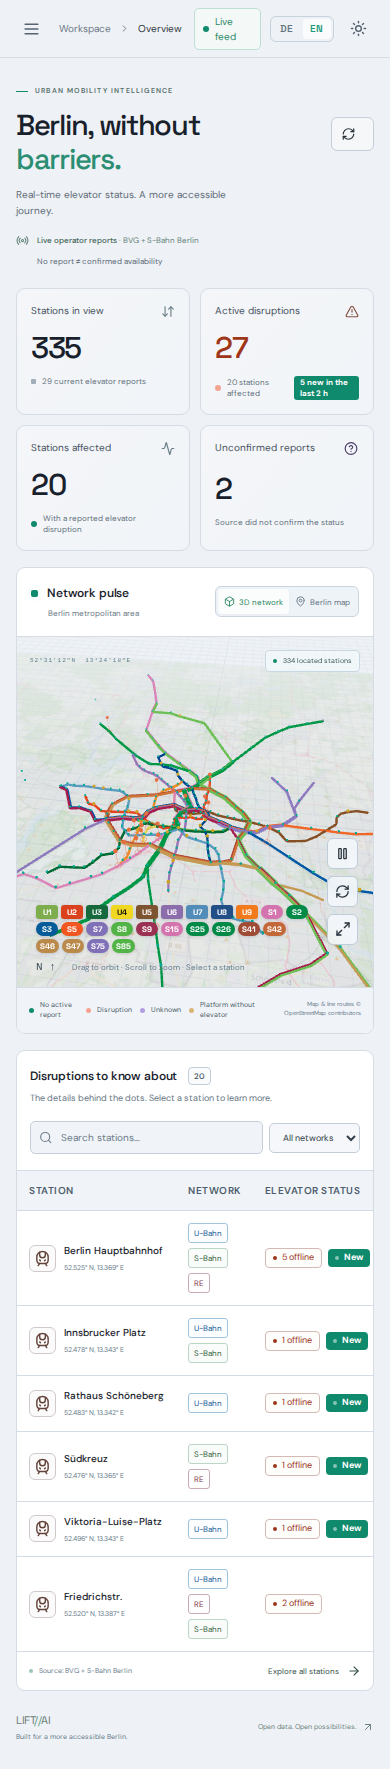
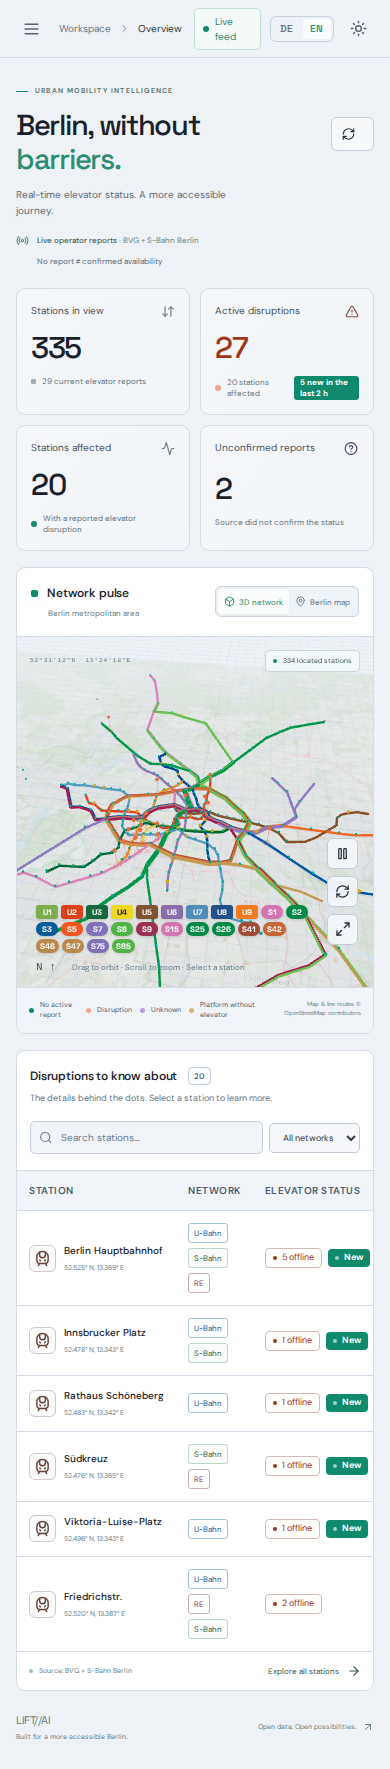
Fall back to a 2D network view when WebGL is unavailable
With WebGL off (driver blocklists, privacy settings) both the 3D scene and
MapLibre fail, and the error stayed even after switching views. Now the app
detects WebGL and shows an SVG network with the same lines and stations; the
error boundary resets per view, logs the error and falls back to 2D as well.
Adds a Firefox no-WebGL Playwright project that reproduces the bug.

Changed region(s): [[0.0615, 0.3731, 0.9538, 0.5596], [0.4, 0.5285, 0.4308, 0.5596]]

diff --git a/frontend/src/App.tsx b/frontend/src/App.tsx
@@ -9,9 +9,11 @@ import lines from './data/lines.json';
 const lineColour=Object.fromEntries(lines.map(l=>[l.ref,l.colour]));
 const Network=lazy(()=>import('./components/Network'));
 const BerlinMap=lazy(()=>import('./components/BerlinMap'));
+import Network2D from './components/Network2D';
+import {supportsWebGL} from './projection';
 const stamp=(s:string)=>new Date(s).toLocaleTimeString('en-GB',{hour:'2-digit',minute:'2-digit',timeZone:'Europe/Berlin'});
 const modes=['All networks','U-Bahn','S-Bahn','Regional'];
-class SceneBoundary extends Component<{children:ReactNode;message:string},{failed:boolean}>{state={failed:false};static getDerivedStateFromError(){return{failed:true};}render(){return this.state.failed?<div className="empty">{this.props.message}</div>:this.props.children;}}
+class SceneBoundary extends Component<{children:ReactNode;fallback:ReactNode},{failed:boolean}>{state={failed:false};static getDerivedStateFromError(){return{failed:true};}componentDidCatch(error:unknown){console.error('Network view failed; showing the 2D fallback.',error);}render(){return this.state.failed?this.props.fallback:this.props.children;}}
 function Modal({open,onClose,title,children,t}:{open:boolean;onClose:()=>void;title:string;children:ReactNode;t:Strings}){return <Dialog.Root open={open} onOpenChange={v=>!v&&onClose()}><Dialog.Portal><Dialog.Overlay className="dialog-overlay"/><Dialog.Content className="dialog"><Dialog.Title>{title}</Dialog.Title><Dialog.Description className="sr-only">{t.dialog.describe(title)}</Dialog.Description><Dialog.Close asChild><Button variant="ghost" size="icon" className="dialog-close" aria-label={t.dialog.close}><X size={19}/></Button></Dialog.Close>{children}</Dialog.Content></Dialog.Portal></Dialog.Root>}
 export default function App(){
  const [data,setData]=useState<Dashboard|null>(null),[error,setError]=useState(''),[loading,setLoading]=useState(true),[refresh,setRefresh]=useState(0);
@@ -42,6 +44,9 @@ export default function App(){
   const settle=(update:{answer?:Briefing;error?:string})=>setChat(c=>c.map(m=>m.id===id?{...m,...update}:m));
   try{const r=await fetch('/api/copilot',{method:'POST',headers:{'Content-Type':'application/json'},body:JSON.stringify({question:q,lang})});if(!r.ok)throw Error(r.status===429?t.errors.busy:t.errors.copilot);settle({answer:await r.json()});}catch(e){settle({error:e instanceof Error?e.message:t.errors.request});}finally{setAsking(false);}};
  const stats=data?.stats;
+ const webgl=useMemo(supportsWebGL,[]);
+ const stationLabel=(s:Station)=>[s.name,s.source==='osm'?t.table.noElevator:t.table.offline(s.outages),s.source!=='osm'&&s.no_elevator&&t.detail.noLiftShort(s.no_elevator),s.new_outages&&t.table.newBadge(s.new_outages)].filter(Boolean).join(' · ');
+ const flat=(note:string)=><Network2D stations={stations} onSelect={setSelected} label={t.flatLabel} note={note} stationLabel={stationLabel}/>;
  const reports=data?.coverage==='reports';
  const totalKnown=stats?stats.operational+stats.outages:0;
  const availability=totalKnown?((stats!.operational/totalKnown)*100).toFixed(1):'—';
@@ -56,7 +61,7 @@ export default function App(){
  {data?.stale&&<div className="notice" role="status">{t.staleNotice}</div>}
  {reports&&<div className="coverage-strip"><Radio size={13}/><span><strong>{t.liveReports}</strong> · BVG + S-Bahn Berlin</span><span>{t.noReportNote}</span></div>}
  {tab==='Overview'&&<><div className="stats-grid"><Stat label={reports?t.stat.stationsInView:t.stat.monitored} value={reports?stats?.stations:stats?.elevators} icon={<ArrowDownUp size={17}/>} foot={<><span className="tiny-square"/> {reports?t.stat.currentReports(stats?.elevators??'—'):t.stat.across(stats?.stations??'—')}</>}/><Stat label={t.stat.disruptions} value={stats?.outages} icon={<TriangleAlert size={17}/>} tone="coral" foot={<><i className="dot coral"/>{t.stat.affectedFoot(stats?.affected_stations??'—')}{!!stats?.new_outages&&<span className="new-foot">{t.stat.newFoot(stats.new_outages)}</span>}</>}/><Stat label={reports?t.stat.affected:t.stat.availability} value={reports?stats?.affected_stations:availability} suffix={reports?undefined:"%"} icon={<Activity size={17}/>} foot={<><i className="dot"/>{reports?t.stat.withDisruption:t.stat.ofKnown}</>}/><Stat label={reports?t.stat.unconfirmed:t.stat.unknown} value={stats?stats.unknown+stats.unresolved_elevators:undefined} icon={<CircleHelp size={17}/>} help={<><p>{reports?t.stat.unconfirmedHelp:t.stat.unknownHelp}</p>{(data?.stations.filter(s=>s.unknown>0||s.unresolved_elevators>0)??[]).map(s=><button key={s.id} onClick={()=>setSelected(s)}>{s.name}<ArrowUpRight size={12}/></button>)}{!data?.stations.some(s=>s.unknown>0||s.unresolved_elevators>0)&&<small>{t.stat.noneUnconfirmed}</small>}</>} helpLabel={t.stat.helpLabel} tone="violet" foot={<>{reports?t.stat.notConfirmed:t.stat.incomplete(stats?.unresolved_elevators??0)}</>}/></div>
- <div className="dashboard-grid"><section className={`panel network-panel ${full?'expanded':''}`}><div className="panel-header"><div><h2><span className="section-mark"/>{t.pulse}</h2><p>{t.metro}</p></div><div className="segmented"><button aria-pressed={view==='3d'} onClick={()=>setView('3d')} className={view==='3d'?'chosen':''}><Box size={13}/>{t.view3d}</button><button aria-pressed={view==='map'} onClick={()=>setView('map')} className={view==='map'?'chosen':''}><MapPin size={13}/>{t.viewMap}</button></div></div><div className="network-stage"><div className="map-top-label"><span className="coordinate">52°31′12″N &nbsp;13°24′18″E</span><span className="scene-tag"><i className="dot"/>{t.located(stations.filter(s=>s.coordinates).length)}</span></div>{data?<SceneBoundary message={t.no3d}><Suspense fallback={<div className="empty"><LoaderCircle className="spin"/>{t.loadingViz}</div>}>{view==='3d'?<Network stations={stations} onSelect={setSelected} reset={reset} reduced={reduced} theme={theme} offlineLabel={t.table.offline} legendLabel={t.highlightLine}/>:<BerlinMap stations={stations} onSelect={setSelected} labels={{station:s=>[s.name,s.source==='osm'?t.table.noElevator:t.table.offline(s.outages),s.source!=='osm'&&s.no_elevator&&t.detail.noLiftShort(s.no_elevator),s.new_outages&&t.table.newBadge(s.new_outages)].filter(Boolean).join(' · '),tilesFailed:t.tilesFailed,search:t.mapSearch,noResults:t.mapNoResults,clear:t.table.clear}}/>}</Suspense></SceneBoundary>:<div className="empty"><LoaderCircle className="spin"/>{t.connectingNetwork}</div>}<div className="map-tools">{view==='3d'&&<><Button size="icon" variant="outline" aria-label={reduced?t.enableAnim:t.pauseAnim} onClick={()=>setReduced(!reduced)}>{reduced?<Play size={15}/>:<Pause size={15}/>}</Button><Button size="icon" variant="outline" aria-label={t.resetCamera} onClick={()=>setReset(v=>v+1)}><RefreshCw size={15}/></Button></>}<Button size="icon" variant="outline" aria-label={full?t.exitExpand:t.expand} onClick={()=>setFull(!full)}>{full?<X size={16}/>:<Maximize2 size={16}/>}</Button></div><div className="scene-caption"><span className="scene-north">N ↑</span><span>{view==='3d'?t.hint3d:t.hintMap}</span></div></div><div className="map-footer"><div className="legend"><span><i className="dot"/>{reports?t.legend.none:t.legend.operational}</span><span><i className="dot coral"/>{t.legend.disruption}</span><span><i className="dot purple"/>{t.legend.unknown}</span><span><i className="dot amber"/>{t.legend.noLift}</span></div><span className="schematic-label">{view==='3d'?t.credit3d:t.creditMap}</span></div></section>
+ <div className="dashboard-grid"><section className={`panel network-panel ${full?'expanded':''}`}><div className="panel-header"><div><h2><span className="section-mark"/>{t.pulse}</h2><p>{t.metro}</p></div><div className="segmented"><button aria-pressed={view==='3d'} onClick={()=>setView('3d')} className={view==='3d'?'chosen':''}><Box size={13}/>{t.view3d}</button><button aria-pressed={view==='map'} onClick={()=>setView('map')} className={view==='map'?'chosen':''}><MapPin size={13}/>{t.viewMap}</button></div></div><div className="network-stage"><div className="map-top-label"><span className="coordinate">52°31′12″N &nbsp;13°24′18″E</span><span className="scene-tag"><i className="dot"/>{t.located(stations.filter(s=>s.coordinates).length)}</span></div>{data?!webgl?flat(t.noWebgl):<SceneBoundary key={view} fallback={flat(t.no3d)}><Suspense fallback={<div className="empty"><LoaderCircle className="spin"/>{t.loadingViz}</div>}>{view==='3d'?<Network stations={stations} onSelect={setSelected} reset={reset} reduced={reduced} theme={theme} offlineLabel={t.table.offline} legendLabel={t.highlightLine}/>:<BerlinMap stations={stations} onSelect={setSelected} labels={{station:stationLabel,tilesFailed:t.tilesFailed,search:t.mapSearch,noResults:t.mapNoResults,clear:t.table.clear}}/>}</Suspense></SceneBoundary>:<div className="empty"><LoaderCircle className="spin"/>{t.connectingNetwork}</div>}<div className="map-tools">{view==='3d'&&webgl&&<><Button size="icon" variant="outline" aria-label={reduced?t.enableAnim:t.pauseAnim} onClick={()=>setReduced(!reduced)}>{reduced?<Play size={15}/>:<Pause size={15}/>}</Button><Button size="icon" variant="outline" aria-label={t.resetCamera} onClick={()=>setReset(v=>v+1)}><RefreshCw size={15}/></Button></>}<Button size="icon" variant="outline" aria-label={full?t.exitExpand:t.expand} onClick={()=>setFull(!full)}>{full?<X size={16}/>:<Maximize2 size={16}/>}</Button></div><div className="scene-caption"><span className="scene-north">N ↑</span><span>{view==='3d'&&webgl?t.hint3d:t.hintMap}</span></div></div><div className="map-footer"><div className="legend"><span><i className="dot"/>{reports?t.legend.none:t.legend.operational}</span><span><i className="dot coral"/>{t.legend.disruption}</span><span><i className="dot purple"/>{t.legend.unknown}</span><span><i className="dot amber"/>{t.legend.noLift}</span></div><span className="schematic-label">{view==='3d'?t.credit3d:t.creditMap}</span></div></section>
  <section className="panel briefing-panel"><div className="panel-header"><h2><Sparkles size={17} className="mint"/>{t.briefing.panel}</h2><span className="micro-label">{briefing?.mode==='ollama'?t.briefing.qwen:t.briefing.summary}</span></div><div className="briefing-content"><div className="briefing-orb"><Sparkles size={24}/><span/></div><div className="eyebrow small">{t.briefing.glance}</div><h3>{(stats?.outages?t.briefing.busy:t.briefing.calm)[0]}<br/>{(stats?.outages?t.briefing.busy:t.briefing.calm)[1]}</h3><p>{briefing?.sentences[0]??(stats?t.briefing.fallback(stats.outages,stats.affected_stations):t.briefing.pending)}</p><div className="briefing-divider"/><div className="insight-row"><span className="insight-icon"><Layers size={16}/></span><div><strong>{disruptions[0]?.name??t.briefing.context}</strong><small>{disruptions[0]?t.briefing.offlineNow(disruptions[0].outages):t.briefing.noGuarantee}</small></div>{disruptions[0]&&<Button size="icon" variant="ghost" aria-label={t.briefing.inspect(disruptions[0].name)} onClick={()=>setSelected(disruptions[0])}><ArrowUpRight size={17}/></Button>}</div><div className="briefing-note"><Check size={13}/>{t.briefing.basis}</div><Button variant="outline" className="briefing-button" onClick={()=>go('Briefings')}>{t.briefing.explore}<ArrowRight size={14}/></Button><span className="briefing-timestamp">{data?t.briefing.snapshot(stamp(data.fetched_at)):t.briefing.awaiting}</span></div></section></div></>}
  {tab!=='Briefings'&&<section className="panel stations-panel"><div className="station-toolbar"><div><h2>{tab==='Overview'?t.table.disruptions:t.table.directory}<span className="count-badge">{tab==='Overview'?disruptions.length:stations.length}</span></h2><p>{tab==='Overview'?t.table.disruptionsLead:t.table.directoryLead}</p></div><div className="filters"><label className="search"><Search size={15}/><input aria-label={t.table.search} placeholder={t.table.searchPlaceholder} value={query} onChange={e=>setQuery(e.target.value)}/>{query&&<button aria-label={t.table.clear} onClick={()=>setQuery('')}><X size={13}/></button>}</label><select aria-label={t.table.filter} value={mode} onChange={e=>setMode(e.target.value)}>{modes.map(m=><option key={m} value={m}>{t.modes[m]}</option>)}</select>{tab==='Stations'&&<label className="check-filter"><input type="checkbox" checked={onlyOutages} onChange={e=>setOnlyOutages(e.target.checked)}/>{t.table.outagesOnly}</label>}{tab==='Stations'&&<label className="check-filter"><input type="checkbox" checked={newOnly} onChange={e=>setNewOnly(e.target.checked)}/>{t.table.newOnly}</label>}{tab==='Stations'&&<label className="check-filter"><input type="checkbox" checked={noLiftOnly} onChange={e=>setNoLiftOnly(e.target.checked)}/>{t.table.noLiftOnly}</label>}</div></div><div className="table-scroll"><table><thead><tr><th>{t.table.station}</th><th>{t.table.network}</th><th>{t.table.status}</th><th>{reports?t.table.reports:t.table.monitored}</th><th><span className="sr-only">{t.table.details}</span></th></tr></thead><tbody>{(tab==='Overview'?disruptions.slice(0,6):stations).map(s=><tr key={s.id} onClick={()=>setSelected(s)}><td><button className="station-name" onClick={e=>{e.stopPropagation();setSelected(s);}}><span className={`station-icon ${s.outages?'affected':''}`}><TrainFront size={17}/></span><span>{s.name}<small>{s.coordinates?`${s.coordinates[1].toFixed(3)}° N, ${s.coordinates[0].toFixed(3)}° E`:t.table.noLocation}</small></span></button></td><td><div className="mode-badges">{s.modes.map(m=><span key={m} className={`mode-badge ${m==='U-Bahn'?'u':m==='S-Bahn'?'s':'r'}`}>{m==='Regional'?'RE':m}</span>)}</div></td><td>{s.source==='osm'?<span className="status-badge no-lift"><i/>{t.table.noElevator}</span>:<span className={`status-badge ${s.outages?'offline':s.unknown?'uncertain':reports?'neutral':'online'}`}><i/>{s.outages?t.table.offline(s.outages):s.unknown?t.table.unknown(s.unknown):s.elevators.length?t.table.operational:reports?t.table.noReports:t.table.noElevators}</span>}{!!s.new_outages&&<span className="status-badge new"><i/>{t.table.newBadge(s.new_outages)}</span>}{s.no_elevator&&s.source!=='osm'&&<span className="status-badge no-lift partial"><i/>{t.detail.noLiftShort(s.no_elevator)}</span>}</td><td className="muted">{s.source==='osm'?'—':t.table.count(s.elevators.length,reports)}</td><td><ChevronRight size={15} className="muted"/></td></tr>)}</tbody></table></div>{!(tab==='Overview'?disruptions:stations).length&&<div className="empty">{loading?t.table.loading:t.table.empty}</div>}<div className="table-footer"><span><i className="dot"/>{t.table.source(data?.source??t.live.connecting)}</span>{tab==='Overview'?<button onClick={()=>go('Stations')}>{t.table.all}<ArrowRight size={14}/></button>:<span>{t.table.inView(stations.length)}</span>}</div></section>}
  {tab==='Briefings'&&<div className="ai-layout"><section className="panel ai-report"><div className="panel-header"><h2><Sparkles size={18}/>{t.ai.report}</h2><span className="micro-label">{briefing?.mode==='ollama'?t.ai.cached:t.ai.recordBased}</span></div><div className="report-body"><div className="eyebrow">{t.ai.observations}</div><h2>{briefing?.title??t.ai.title}</h2>{briefing?briefing.sentences.map((s,i)=><p key={i}>{s}</p>):<p>{stats?t.ai.pendingInsights(stats.outages,stats.affected_stations):t.ai.waiting}</p>}<div className="source-chips">{briefing?.sources.map(s=><button key={s.id} onClick={()=>setSelected(data?.stations.find(n=>n.id===s.id)??null)}><Database size={12}/>{s.name}<ArrowUpRight size={12}/></button>)}</div><div className="notice subtle"><Accessibility size={18}/>{t.ai.stepFree}</div><small className="muted">{briefing?`${t.ai.generated(stamp(briefing.generated_at))} · ${briefing.mode==='ollama'?t.ai.qwenSelects:t.ai.deterministic}`:t.ai.none}</small></div></section><section className="panel copilot"><div className="panel-header"><h2><Sparkles size={17}/>{t.ai.ask}</h2><span className="micro-label">{t.ai.copilot}</span></div><div className="copilot-body">{!chat.length&&<><h3>{t.ai.question[0]}<br/>{t.ai.question[1]}</h3><p>{t.ai.intro}</p></>}<div className={`suggestions ${chat.length?'compact':''}`}>{t.ai.suggestions.map(q=><button key={q} onClick={()=>ask(q)} disabled={!aiReady||asking}>{q}<ArrowUpRight size={14}/></button>)}</div>{chat.length>0&&<div className="chat-thread" aria-live="polite">{chat.map(m=><div key={m.id} className="chat-turn"><p className="bubble user">{m.question}</p>{m.answer?<div className={`answer ${m.answer.sources.some(s=>broken(s.id))?'broken':''}`}><span className="eyebrow">{m.answer.mode==='ollama'?t.ai.qwenAnswer:t.ai.dbAnswer}</span>{m.answer.sources.some(s=>broken(s.id))&&<span className="sad" role="img" aria-label={t.ai.sad}>😞</span>}{m.answer.sentences.map((s,i)=><p key={i}>{s}</p>)}{m.answer.sources.map(s=>data?.stations.find(n=>n.id===s.id)).filter(s=>s?.no_elevator).map(s=><div key={s!.id} className="no-lift compact" role="note"><Accessibility size={15}/><span>{t.detail.noLiftShort(s!.no_elevator!)}</span><span className="no-lift-lines">{s!.no_elevator!.map(ref=><span key={ref} className={`line-chip static ${ref.startsWith('S')?'sbahn':''}`} style={{background:lineColour[ref],color:'#fff'}}>{ref}</span>)}</span></div>)}{m.answer.sources.length>0&&<div className="source-chips">{m.answer.sources.map(s=><button key={s.id} onClick={()=>setSelected(data?.stations.find(n=>n.id===s.id)??null)}>{broken(s.id)&&<span aria-hidden="true">😞</span>}{s.name}<ArrowUpRight size={12}/></button>)}</div>}</div>:m.error?<p role="alert" className="bubble error">{m.error}</p>:<p className="bubble typing" aria-label={t.ai.thinking}><i/><i/><i/></p>}</div>)}<div ref={chatEnd}/></div>}<form onSubmit={e=>{e.preventDefault();ask();}}><label className="sr-only" htmlFor="question">{t.ai.label}</label><input id="question" value={question} onChange={e=>setQuestion(e.target.value)} maxLength={400} placeholder={aiReady?t.ai.placeholder:t.ai.notConnected} disabled={!aiReady}/><Button size="icon" aria-label={t.ai.send} disabled={!aiReady||asking||!question.trim()}>{asking?<LoaderCircle size={17} className="spin"/>:<Send size={17}/>}</Button></form><small>{t.ai.readOnly}</small></div></section></div>}

diff --git a/frontend/src/i18n.ts b/frontend/src/i18n.ts
@@ -22,7 +22,7 @@ const en={
   unconfirmedHelp:'The operator lists these elevators, but the notice does not say “Außer Betrieb” (out of service), for example planned works or unclear wording. They are not counted as disruptions. Check the station before travelling.',
   unknownHelp:'Elevators without a confirmed status, plus source references that could not be matched to an elevator. They are excluded from availability.',noneUnconfirmed:'No stations are affected right now.',incomplete:(n:number)=>`${n} incomplete source references`},
  pulse:'Network pulse',metro:'Berlin metropolitan area',view3d:'3D network',viewMap:'Berlin map',located:(n:number)=>`${n} located stations`,
- loadingViz:'Loading visualization',connectingNetwork:'Connecting to Berlin’s network…',no3d:'3D is unavailable on this device. Switch to the Berlin map or use the station list.',
+ loadingViz:'Loading visualization',connectingNetwork:'Connecting to Berlin’s network…',no3d:'2D view: the 3D scene could not start on this device.',noWebgl:'2D view: 3D and the interactive map need WebGL, which this browser has turned off.',flatLabel:'Berlin U-Bahn and S-Bahn network with elevator status',
  enableAnim:'Enable animation',pauseAnim:'Pause animation',resetCamera:'Reset camera',exitExpand:'Exit expanded view',expand:'Expand visualization',
  hint3d:'Drag to orbit · Scroll to zoom · Select a station',hintMap:'Select a station to inspect elevators',
  legend:{none:'No active report',operational:'Operational',disruption:'Disruption',unknown:'Unknown',noLift:'Platform without elevator'},
@@ -82,7 +82,7 @@ const de:Strings={
   unconfirmedHelp:'Der Betreiber listet diese Aufzüge, aber die Meldung sagt nicht „Außer Betrieb“, etwa bei geplanten Arbeiten oder unklarer Formulierung. Sie zählen nicht als Störung. Prüfe die Station vor der Fahrt.',
   unknownHelp:'Aufzüge ohne bestätigten Status sowie Quellverweise, die keinem Aufzug zugeordnet werden konnten. Sie fließen nicht in die Verfügbarkeit ein.',noneUnconfirmed:'Derzeit ist keine Station betroffen.',incomplete:(n:number)=>`${n} unvollständige Quellverweise`},
  pulse:'Netzpuls',metro:'Großraum Berlin',view3d:'3D-Netz',viewMap:'Berlin-Karte',located:(n:number)=>`${n} verortete Stationen`,
- loadingViz:'Visualisierung wird geladen',connectingNetwork:'Verbinde mit dem Berliner Netz…',no3d:'3D ist auf diesem Gerät nicht verfügbar. Wechsle zur Berlin-Karte oder nutze die Stationsliste.',
+ loadingViz:'Visualisierung wird geladen',connectingNetwork:'Verbinde mit dem Berliner Netz…',no3d:'2D-Ansicht: Die 3D-Szene konnte auf diesem Gerät nicht starten.',noWebgl:'2D-Ansicht: 3D und die interaktive Karte brauchen WebGL, das in diesem Browser ausgeschaltet ist.',flatLabel:'Berliner U-Bahn- und S-Bahn-Netz mit Aufzugsstatus',
  enableAnim:'Animation starten',pauseAnim:'Animation pausieren',resetCamera:'Kamera zurücksetzen',exitExpand:'Vergrößerung beenden',expand:'Visualisierung vergrößern',
  hint3d:'Ziehen zum Drehen · Scrollen zum Zoomen · Station auswählen',hintMap:'Station auswählen, um Aufzüge anzuzeigen',
  legend:{none:'Keine aktive Meldung',operational:'In Betrieb',disruption:'Störung',unknown:'Unbekannt',noLift:'Bahnsteig ohne Aufzug'},

diff --git a/frontend/src/components/Network2D.tsx b/frontend/src/components/Network2D.tsx
@@ -1,0 +1,18 @@
+import {useMemo} from 'react';
+import type {Station} from '../types';
+import lines from '../data/lines.json';
+import {planar} from '../projection';
+type Line2={ref:string;mode:string;colour:string;segments:[number,number][][]};
+const network=lines as Line2[];
+// Plain SVG version of the 3D network for browsers without WebGL; same lines, stations and colours.
+export default function Network2D({stations,onSelect,label,note,stationLabel}:{stations:Station[];onSelect:(s:Station)=>void;label:string;note:string;stationLabel:(s:Station)=>string}){
+ const box=useMemo(()=>{const pts=network.flatMap(l=>l.segments.flat().map(planar)),xs=pts.map(p=>p[0]),ys=pts.map(p=>p[1]);
+  return [Math.min(...xs)-1,Math.min(...ys)-1,Math.max(...xs)-Math.min(...xs)+2,Math.max(...ys)-Math.min(...ys)+2].join(' ');},[]);
+ return <div className="network-2d">
+  <svg viewBox={box} role="img" aria-label={label} preserveAspectRatio="xMidYMid meet">
+   {network.flatMap(l=>l.segments.map(([a,b],i)=>{const [x1,y1]=planar(a),[x2,y2]=planar(b);return <line key={`${l.ref}-${i}`} x1={x1} y1={y1} x2={x2} y2={y2} stroke={l.colour} strokeWidth={.3} strokeLinecap="round"/>;}))}
+   {stations.filter(s=>s.coordinates).map(s=>{const [x,y]=planar(s.coordinates!);return <circle key={s.id} cx={x} cy={y} r={s.outages?.42:s.no_elevator?.36:.24} className={s.outages?'outage':s.no_elevator?'no-lift':s.unknown?'unknown':''} onClick={()=>onSelect(s)}><title>{stationLabel(s)}</title></circle>;})}
+  </svg>
+  <p className="network-2d-note">{note}</p>
+ </div>;
+}

diff --git a/frontend/src/light.css b/frontend/src/light.css
@@ -187,6 +187,12 @@
 :root[data-theme=light] .theme-options button:hover,:root[data-theme=light] .theme-options button:focus-visible{background:#fafbfc}
 :root[data-theme=light] .theme-options button[aria-checked=true]{color:#1e9a7e}
 :root[data-theme=light] .theme-options small{color:#637682}
+:root[data-theme=light] .network-2d circle{fill:#249480;stroke:#4270b3}
+:root[data-theme=light] .network-2d circle.outage{fill:#b82c00}
+:root[data-theme=light] .network-2d circle.unknown{fill:#433663}
+:root[data-theme=light] .network-2d circle.no-lift{fill:#ab7c0d}
+:root[data-theme=light] .network-2d circle:hover{stroke:#1a1a1a}
+:root[data-theme=light] .network-2d-note{color:#526470}
 :root[data-theme=light]{color-scheme:light;color:#18212b;background:#eef1f5;--mint:#0f8a6c;--muted:#5d6a78;--border:#d5dce4;--panel:#ffffff}
 :root[data-theme=light] body{background:#eef1f5}
 :root[data-theme=light] .map-container .maplibregl-canvas{filter:saturate(.35) brightness(1.03)}

diff --git a/frontend/tests/no-webgl.spec.ts b/frontend/tests/no-webgl.spec.ts
@@ -1,0 +1,17 @@
+import {test,expect} from '@playwright/test';
+test('without WebGL the network falls back to a 2D view in both modes',async({page})=>{
+ const errors:string[]=[];page.on('pageerror',e=>errors.push(e.message));
+ await page.setViewportSize({width:1440,height:1000});
+ await page.goto('/');
+ await expect(page.locator('tbody tr').first()).toBeVisible({timeout:30000});
+ const fallback=page.locator('.network-2d');
+ await expect(fallback).toBeVisible();
+ await expect(page.getByText('3D is unavailable')).toHaveCount(0);
+ expect(await fallback.locator('line').count()).toBeGreaterThan(400);
+ expect(await fallback.locator('circle').count()).toBeGreaterThan(300);
+ await page.getByRole('button',{name:'Berlin map',exact:true}).click();
+ await expect(fallback).toBeVisible();
+ await fallback.locator('circle.no-lift').first().click();
+ await expect(page.getByRole('dialog')).toBeVisible();
+ expect(errors).toEqual([]);
+});

diff --git a/frontend/playwright.config.ts b/frontend/playwright.config.ts
@@ -1,2 +1,7 @@
 import {defineConfig} from '@playwright/test';
-export default defineConfig({testDir:'./tests',timeout:45000,use:{baseURL:process.env.TEST_BASE_URL||'http://127.0.0.1:5173',headless:true,launchOptions:{args:['--enable-unsafe-swiftshader']},screenshot:'only-on-failure'},reporter:'list',workers:1});
+export default defineConfig({testDir:'./tests',timeout:45000,use:{baseURL:process.env.TEST_BASE_URL||'http://127.0.0.1:5173',headless:true,screenshot:'only-on-failure'},reporter:'list',workers:1,
+ projects:[
+  {name:'chromium',testIgnore:/no-webgl/,use:{browserName:'chromium',launchOptions:{args:['--enable-unsafe-swiftshader']}}},
+  // Browsers with WebGL turned off (driver blocklists, privacy settings) must still get a usable network view.
+  {name:'firefox-no-webgl',testMatch:/no-webgl/,use:{browserName:'firefox',launchOptions:{firefoxUserPrefs:{'webgl.disabled':true}}}},
+ ]});

diff --git a/frontend/src/components/Network.tsx b/frontend/src/components/Network.tsx
@@ -4,10 +4,10 @@ import { useEffect, useMemo, useState } from 'react';
 import { Color, SRGBColorSpace, TextureLoader, type Texture } from 'three';
 import type { Station } from '../types';
 import lines from '../data/lines.json';
+import { planar } from '../projection';
 type Line3={ref:string;mode:string;colour:string;segments:[number,number][][]};
 const network=lines as Line3[];
-// Equirectangular projection around Alexanderplatz; z is scaled by 1/cos(52.5°) to keep true proportions.
-const project=([lon,lat]:[number,number]):[number,number,number]=>[(lon-13.4)*49,.1,-(lat-52.52)*80.6];
+const project=(c:[number,number]):[number,number,number]=>{const [x,z]=planar(c);return [x,.1,z];};
 const point=(s:Station)=>project(s.coordinates!);
 const GAP=.075;
 // Scene colours per theme; lines keep their official colours in both.

diff --git a/frontend/src/styles.css b/frontend/src/styles.css
@@ -100,3 +100,11 @@ td.muted div+div{margin-top:3px}
 .theme-options button[aria-checked=true]{color:#7ee6cf}
 .theme-options span{flex:1;display:flex;flex-direction:column;gap:1px}
 .theme-options small{font-size:10px;color:#7d909c}
+.network-2d{position:absolute;inset:0;display:flex;align-items:center;justify-content:center;padding:44px 16px 56px}
+.network-2d svg{width:100%;height:100%}
+.network-2d circle{fill:#63d9c4;stroke:#0a111b;stroke-width:.08;cursor:pointer}
+.network-2d circle.outage{fill:#ffb59e}
+.network-2d circle.unknown{fill:#a99cc9}
+.network-2d circle.no-lift{fill:#f2c14e}
+.network-2d circle:hover{stroke:#fff;stroke-width:.1}
+.network-2d-note{position:absolute;left:19px;right:70px;bottom:36px;margin:0;font-size:10px;color:#8fa1ad}

diff --git a/frontend/src/projection.ts b/frontend/src/projection.ts
@@ -1,0 +1,5 @@
+// Equirectangular projection around Alexanderplatz; y is scaled by 1/cos(52.5°) to keep true proportions.
+export const planar=([lon,lat]:[number,number]):[number,number]=>[(lon-13.4)*49,-(lat-52.52)*80.6];
+export function supportsWebGL(){
+ try{const canvas=document.createElement('canvas');return !!(canvas.getContext('webgl2')||canvas.getContext('webgl'));}catch{return false;}
+}
